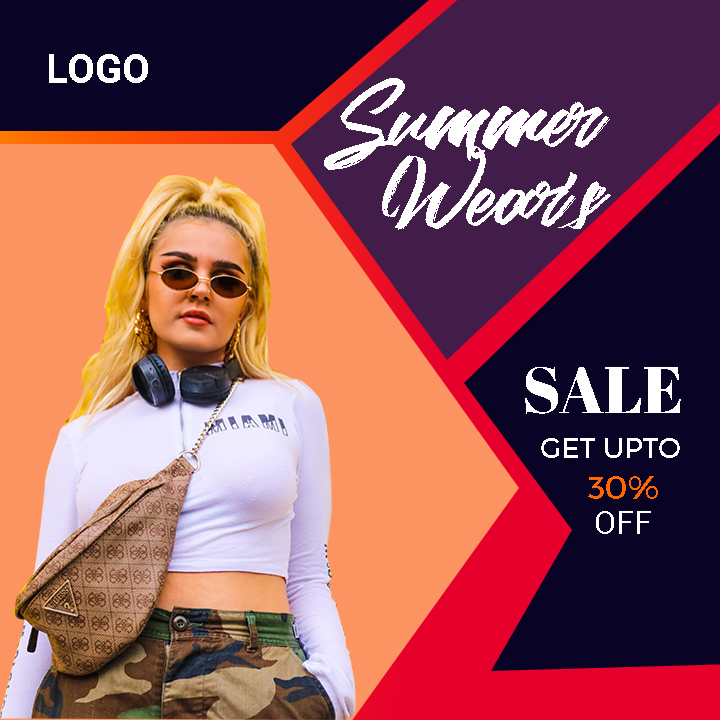
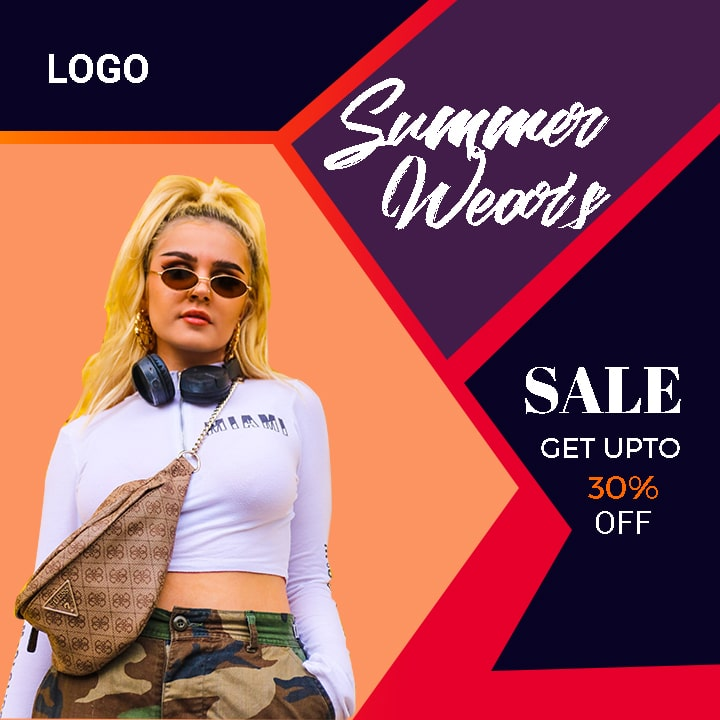
images optimized

diff --git a/script.js b/script.js
@@ -1,11 +1,12 @@
 $(document).ready(function () {
+
     $('html, body').scrollTop(0);
 
-    $(window).on('load', function() {
-    setTimeout(function(){
-        $('html, body').scrollTop(0);
-    }, 0);
- });
+    $(window).on('load', function () {
+        setTimeout(function () {
+            $('html, body').scrollTop(0);
+        }, 0);
+    });
     $("a.nav-link").on('click', function (event) {
 
         if (this.hash !== "") {
@@ -38,22 +39,61 @@ $(document).ready(function () {
     }); //for scroll2top end
 
 });
+var TxtType = function (el, toRotate, period) {
+    this.toRotate = toRotate;
+    this.el = el;
+    this.loopNum = 0;
+    this.period = parseInt(period, 10) || 2000;
+    this.txt = '';
+    this.tick();
+    this.isDeleting = false;
+};
 
-//$(window).scroll(function () {
-//    var height = $(window).scrollTop();
-//    if (height > 100) {
-//        $('#back2Top').fadeIn();
-//    } else {
-//        $('#back2Top').fadeOut();
-//    }
-//});
-//$(document).ready(function () {
-//    $("#back2Top").click(function (event) {
-//        event.preventDefault();
-//        $("html, body").animate({
-//            scrollTop: 0
-//        }, 2000);
-//        return false;
-//    });
-//
-//});
+TxtType.prototype.tick = function () {
+    var i = this.loopNum % this.toRotate.length;
+    var fullTxt = this.toRotate[i];
+
+    if (this.isDeleting) {
+        this.txt = fullTxt.substring(0, this.txt.length - 1);
+    } else {
+        this.txt = fullTxt.substring(0, this.txt.length + 1);
+    }
+
+    this.el.innerHTML = '<span class="wrap">' + this.txt + '</span>';
+
+    var that = this;
+    var delta = 200 - Math.random() * 100;
+
+    if (this.isDeleting) {
+        delta /= 2;
+    }
+
+    if (!this.isDeleting && this.txt === fullTxt) {
+        delta = this.period;
+        this.isDeleting = true;
+    } else if (this.isDeleting && this.txt === '') {
+        this.isDeleting = false;
+        this.loopNum++;
+        delta = 500;
+    }
+
+    setTimeout(function () {
+        that.tick();
+    }, delta);
+};
+
+window.onload = function () {
+    var elements = document.getElementsByClassName('typewrite');
+    for (var i = 0; i < elements.length; i++) {
+        var toRotate = elements[i].getAttribute('data-type');
+        var period = elements[i].getAttribute('data-period');
+        if (toRotate) {
+            new TxtType(elements[i], JSON.parse(toRotate), period);
+        }
+    }
+    // INJECT CSS
+    var css = document.createElement("style");
+    css.type = "text/css";
+    css.innerHTML = ".typewrite > .wrap { border-right: 0.08em solid #fff}";
+    document.body.appendChild(css);
+};

diff --git a/index.html b/index.html
@@ -52,7 +52,10 @@
         <div class="container-fluid">
             <div class="row load-screen">
                 <div class="col-12 col-sm-6 d-flex flex-column justify-content-center align-items-center">
-                    <h1 class="text-center align-left mt-5 display-3 font-weight-bold primary-color title-font intro-desc">Hi, I'm a front-end Developer</h1>
+                    <h1 class="text-center align-left mt-5 display-3 font-weight-bold primary-color title-font intro-desc">
+                        <a href="" class="typewrite" data-period="2000" data-type='[ "Hi, I am Raja.", "I am front-end developer.", "And creative designer.", "I like to develop web apps." ]'>
+                            <span class="wrap"></span>
+                        </a></h1>
                     <p class="text-center mt-3 pb-5 secondary-color main-desc body-font my-display  title-h1">I like to develop elegant responsive websites and web-application</p>
                 </div>
                 <div class="col-12 col-sm-6 text-right">
@@ -80,7 +83,7 @@
                             I am a passionate front-end web developer with hands-on experience with designing and developing e-commerce website, blogs using modern frameworks and technologies. Such as Bootstrap, Sass, NodeJs, Javascript and Php.
                         </p>
                     </div>
-                    <a type="button" class="btn btn-outline-primary mb-5 mybtn-down" target="_blank" href="images/Raja's%20CV.pdf" download="Resume">Download CV</a>
+                    <a type="button" class="btn btn submit-btn mb-5 mybtn-down" target="_blank" href="images/Raja's%20CV.pdf" download="Resume">Download CV</a>
                 </div>
             </div>
         </div>

diff --git a/css/style.css b/css/style.css
@@ -11,11 +11,11 @@ body {
 }
 
 .primary-color {
-    color: #086375;
+color: #0c2461;
 }
 
 .secondary-color {
-    color: #3AAED8;
+    color: #6a89cc;
 }
 
 /*load screen style*/
@@ -123,6 +123,10 @@ body {
     font-size: 2.5rem;
     font-weight: 500;
     margin-left: 21px;
+}
+
+h1 a{
+    color: #182C61;
 }
 
 .about-image img {
